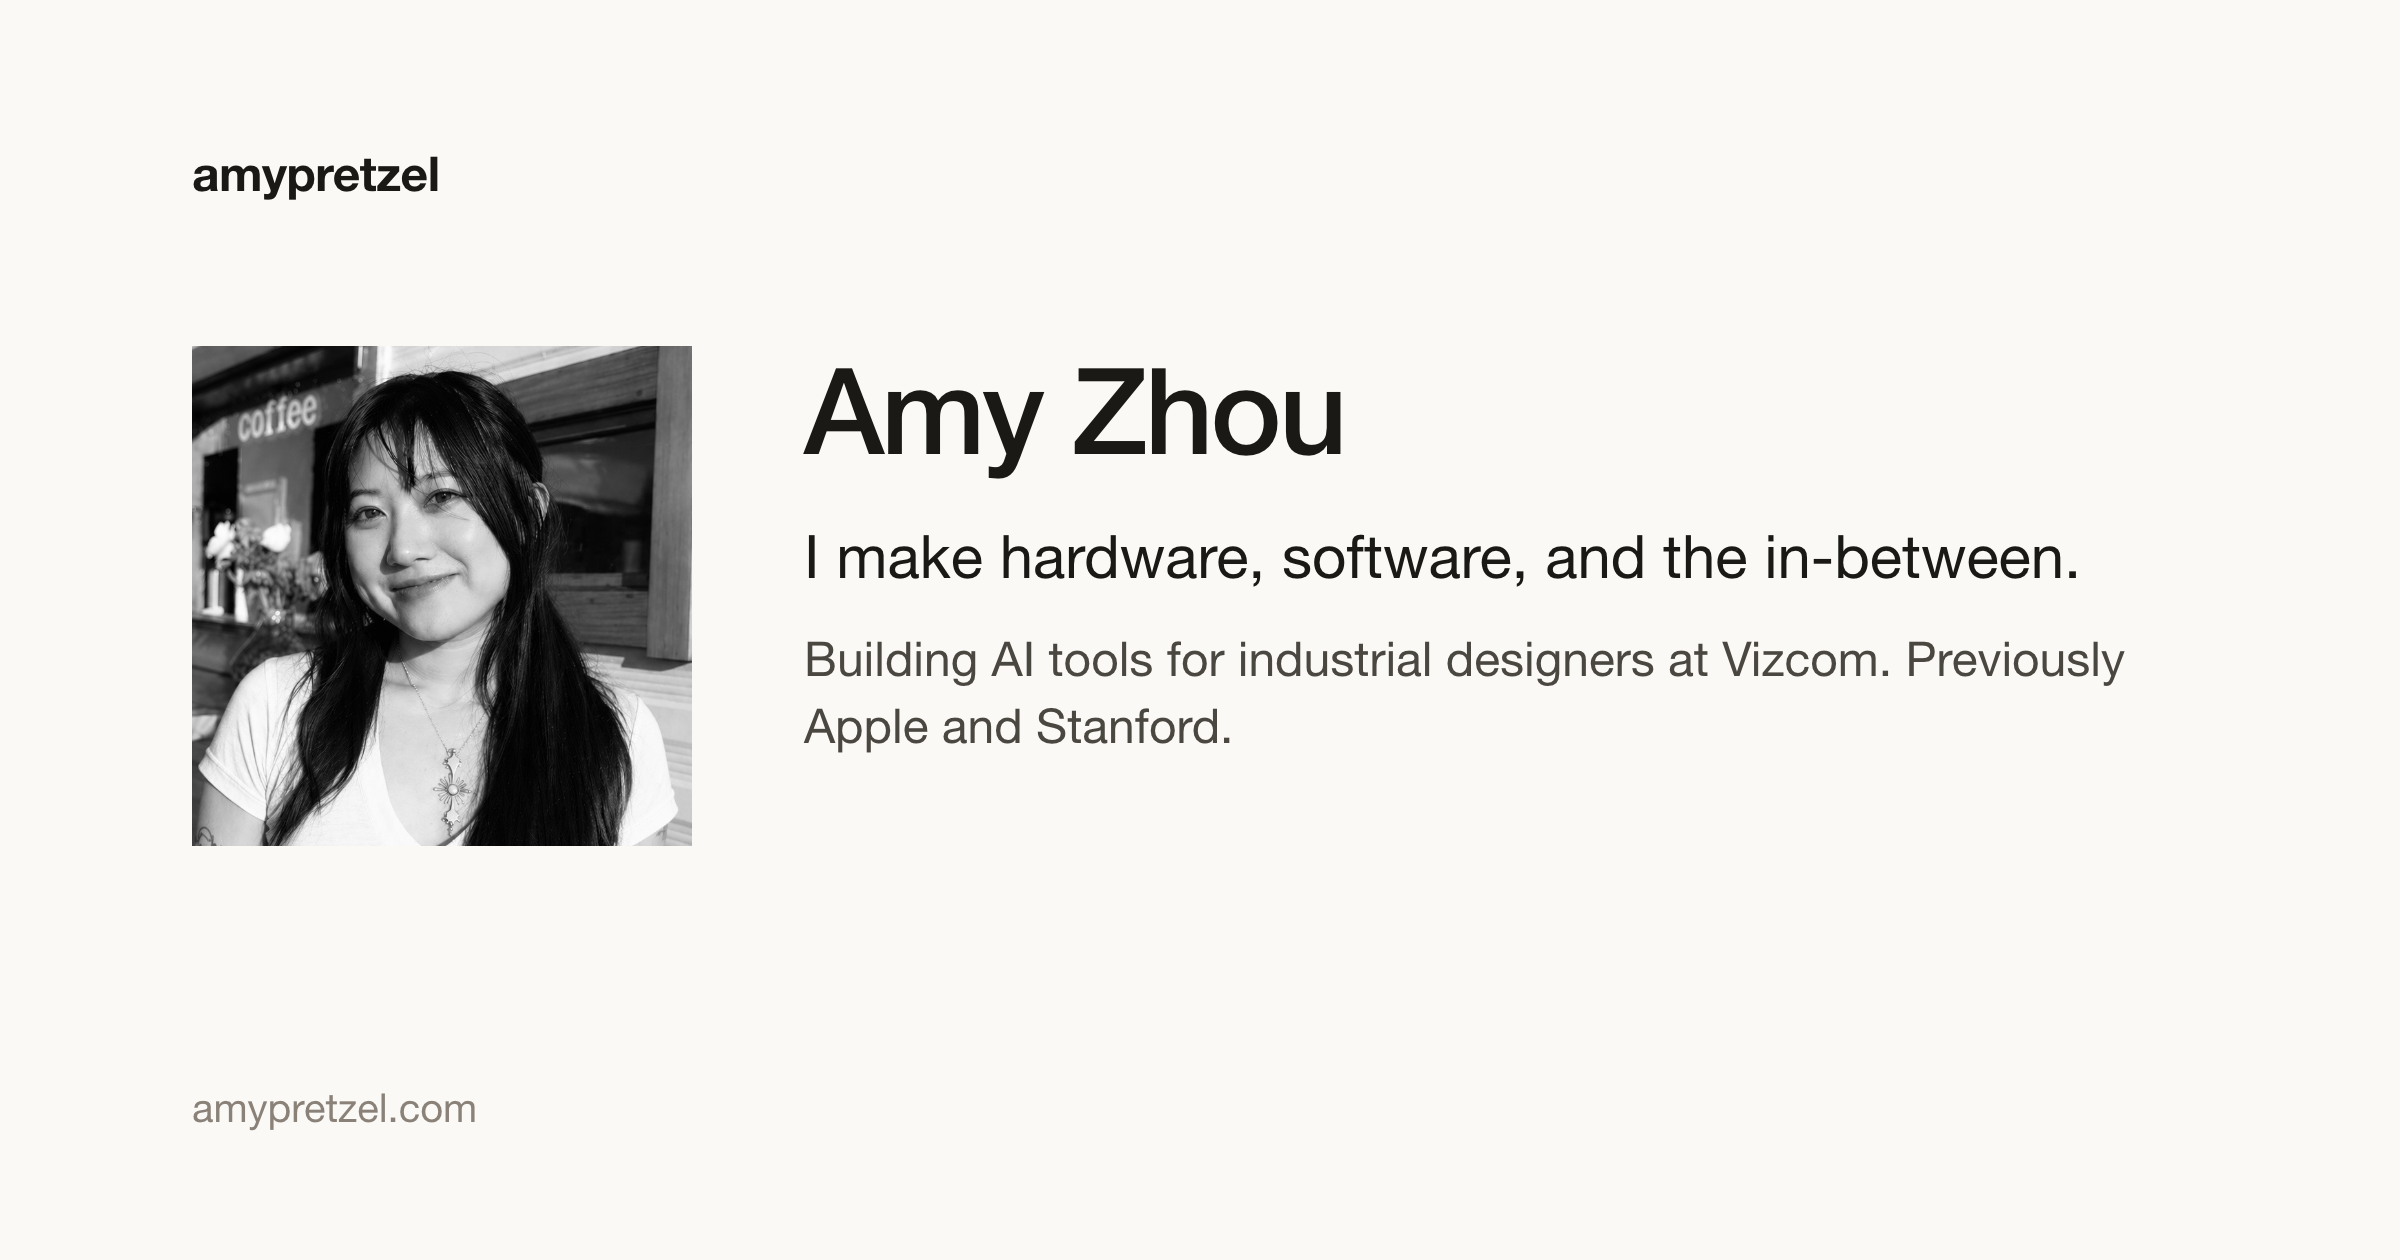
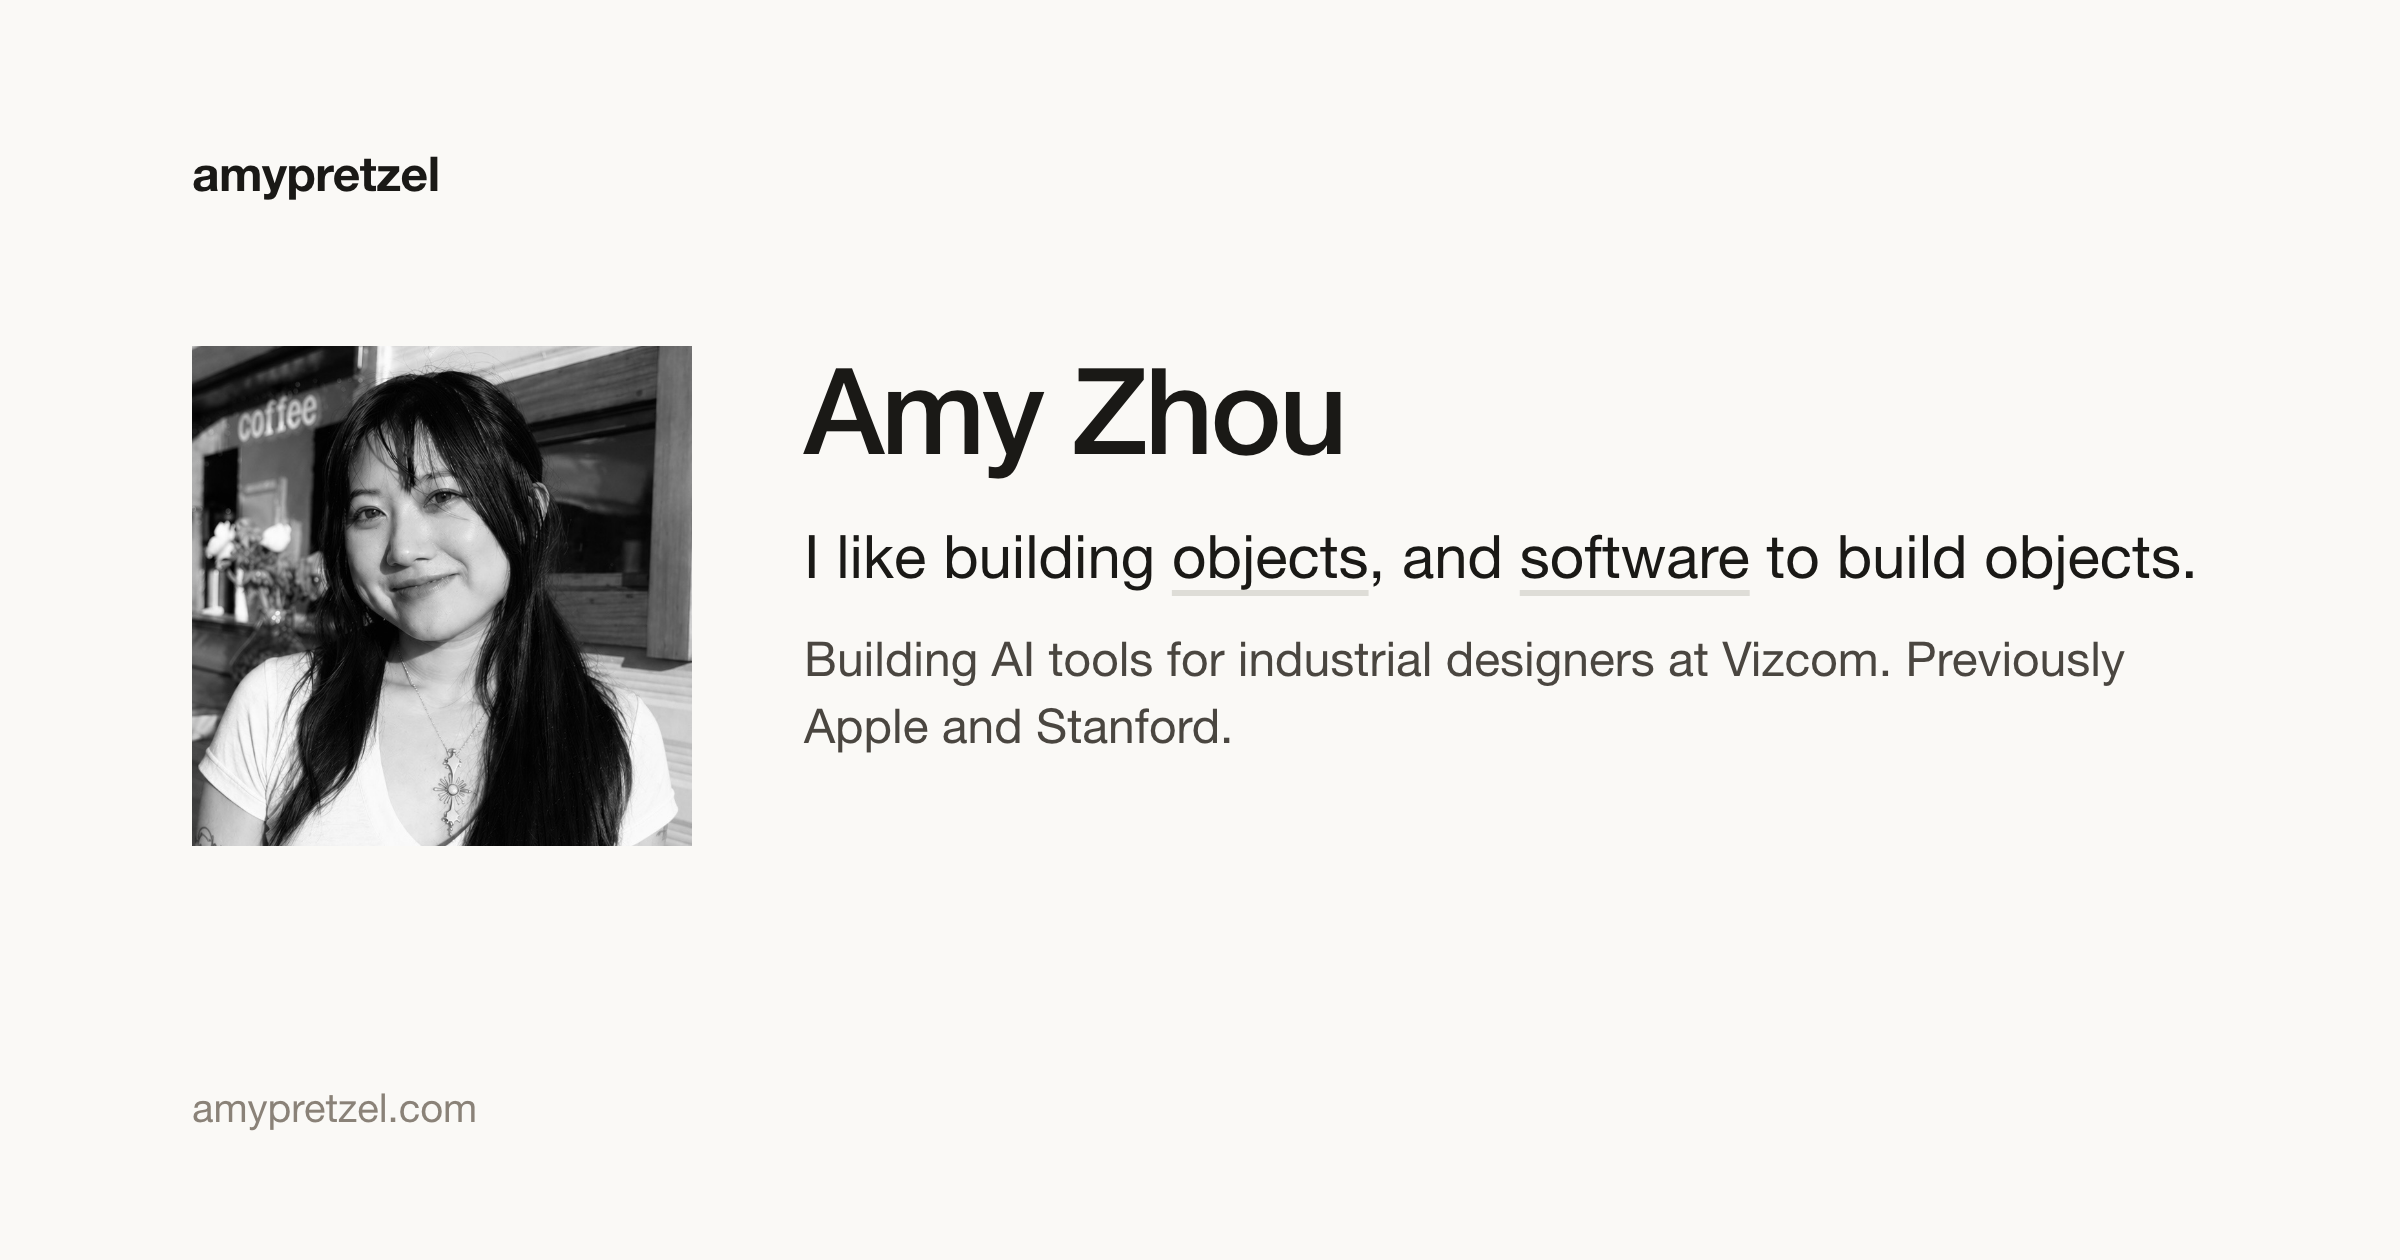
Lead the bio with the objects line

Changed region(s): [[0.3438, 0.4333, 0.9062, 0.4952]]

diff --git a/app/page.tsx b/app/page.tsx
@@ -12,7 +12,7 @@ const personJsonLd = {
   url: "https://amypretzel.com",
   image: "https://amypretzel.com/amy-portrait.jpg",
   description:
-    "Makes hardware, software, and the in-between. Building AI tools for industrial designers at Vizcom. Previously Apple, Stanford.",
+    "Builds objects, and software to build objects. Building AI tools for industrial designers at Vizcom. Previously Apple, Stanford.",
   worksFor: { "@type": "Organization", name: "Vizcom", url: "https://www.vizcom.ai" },
   alumniOf: [
     { "@type": "CollegeOrUniversity", name: "Stanford University", url: "https://www.stanford.edu" },
@@ -50,12 +50,11 @@ export default function Home() {
           <div className="personal-intro">
             <Image className="personal-portrait" src="/amy-portrait.jpg" alt="Amy Zhou" width={800} height={800} sizes="(max-width: 540px) 100px, 145px" priority />
             <div className="personal-copy">
-              <p className="intro-statement">I make hardware, software, and the in-between.</p>
+              <p className="intro-statement">I like building <Link href="/portfolio">objects</Link>, and <Link href="/software">software</Link> to build objects.</p>
               <p>Currently building AI tools for industrial designers at Vizcom.</p>
               <p>I studied product design and mechanical engineering at Stanford, with a minor in music. I also worked at Apple as a product design engineer, focusing on hardware that was useful, durable, and better for the environment.</p>
               <p>Since then: Taiyaki, an AI-assisted concept-to-CAD system; Taya, a wearable AI journal designed as jewelry; a custom AI jewelry pipeline; and Mobius, a company focused on materials trading and recycling.</p>
               <p>I live in San Francisco and spend my time learning, building, and exploring new ideas. I care about thoughtful design, clear engineering, and making things that feel personal and meaningful.</p>
-              <p className="work-statement">I like building <Link href="/portfolio">objects</Link>, and <Link href="/software">software</Link> to build objects.</p>
               <nav className="personal-links" aria-label="Contact Amy">
                 <a href="mailto:amzyst@gmail.com">amzyst@gmail.com</a>
                 <a href="https://x.com/amypretzel" target="_blank" rel="noopener noreferrer">Twitter</a>

diff --git a/app/layout.tsx b/app/layout.tsx
@@ -4,7 +4,7 @@ import { ThemeFlashScript } from "./theme-toggle";
 
 const SITE_URL = "https://amypretzel.com";
 const SITE_DESC =
-  "Amy Zhou makes hardware, software, and the in-between. Building AI tools for industrial designers at Vizcom; previously Apple and Stanford.";
+  "Amy Zhou builds objects, and software to build objects. Building AI tools for industrial designers at Vizcom; previously Apple and Stanford.";
 
 export const metadata: Metadata = {
   metadataBase: new URL(SITE_URL),
@@ -45,7 +45,7 @@ export const metadata: Metadata = {
     locale: "en_US",
     title: "Amy Zhou",
     description: SITE_DESC,
-    images: [{ url: "/og-image.png?v=2", width: 2400, height: 1260, alt: "Amy Zhou" }],
+    images: [{ url: "/og-image.png?v=3", width: 2400, height: 1260, alt: "Amy Zhou" }],
   },
   twitter: {
     card: "summary_large_image",
@@ -53,7 +53,7 @@ export const metadata: Metadata = {
     site: "@amypretzel",
     title: "Amy Zhou",
     description: SITE_DESC,
-    images: ["/og-image.png?v=2"],
+    images: ["/og-image.png?v=3"],
   },
   robots: {
     index: true,

diff --git a/app/globals.css b/app/globals.css
@@ -241,9 +241,8 @@ button:disabled { cursor: default; }
 .selected-image { position: relative; aspect-ratio: 4 / 3; overflow: hidden; background: #f0efeb; }
 .selected-image img { object-fit: contain; padding: 7%; mix-blend-mode: multiply; transition: transform .2s; }
 .selected-project:hover .selected-image img { transform: scale(1.025); }
-.personal-copy .work-statement { color: var(--color-ink); }
-.work-statement a { text-decoration: underline; text-decoration-color: var(--color-rule); text-underline-offset: 4px; }
-.work-statement a:hover { text-decoration-color: currentColor; }
+.intro-statement a { text-decoration: underline; text-decoration-color: var(--color-rule); text-underline-offset: 4px; }
+.intro-statement a:hover { text-decoration-color: currentColor; }
 .project-caption { padding-top: 10px; }
 .project-caption h3, .project-caption h2 { font-size: 13px; font-weight: 500; }
 .project-caption p { margin-top: 4px; font-size: 11px; line-height: 1.4; color: var(--color-ink-muted); }
